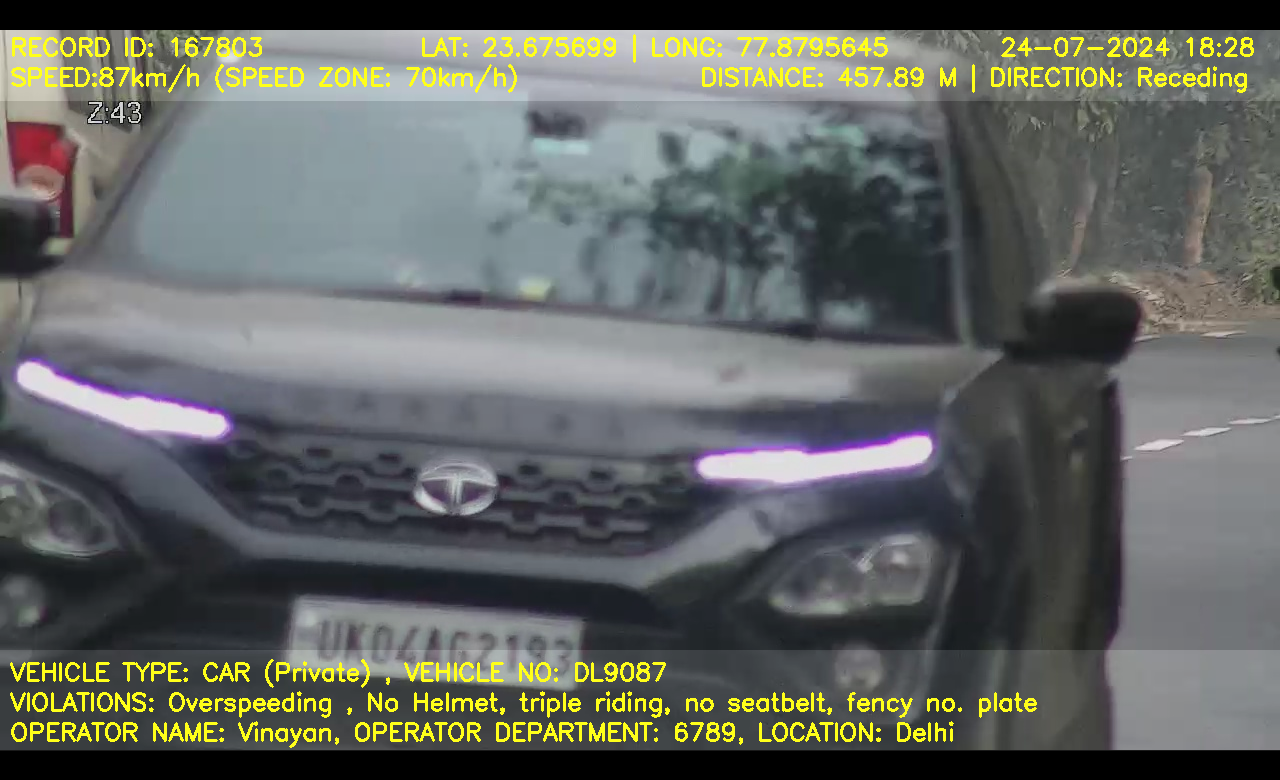
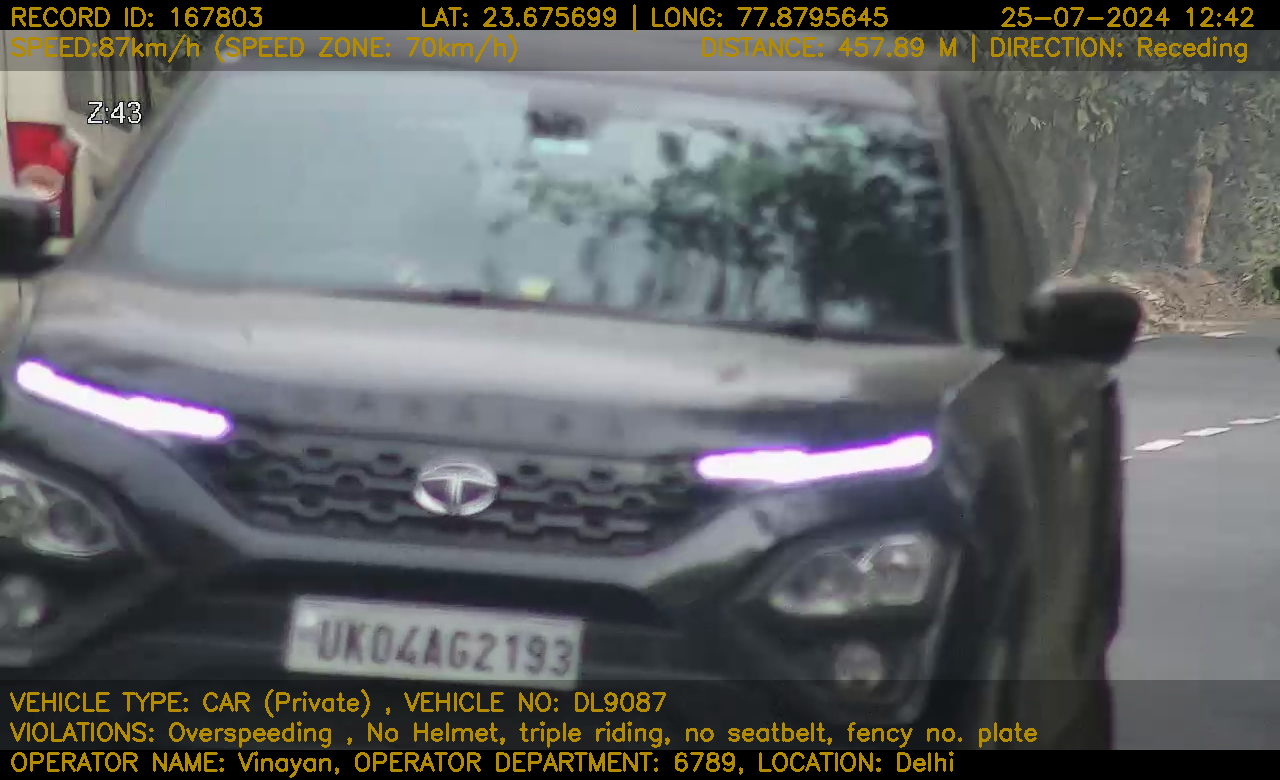
updated

diff --git a/Images_ploting/plotting.py b/Images_ploting/plotting.py
@@ -1,5 +1,4 @@
 import cv2
-import numpy as np
 from datetime import datetime
 
 def plot(img_path, record_id, speed, speed_zone, distance, direction, veh_type, veh_no, veh_ctg, voilation, operator_name, op_id, lat, long, col_b, col_g, col_r,loc):
@@ -11,18 +10,17 @@ def plot(img_path, record_id, speed, speed_zone, distance, direction, veh_type, 
     date_time= datetime.now()
     date_time_format = date_time.strftime("%d-%m-%Y %H:%M")  
     borderd_img = cv2.copyMakeBorder(img_read,30,30,0,0,borderType=cv2.BORDER_CONSTANT)
-    cv2.putText(borderd_img, date_time_format, (1000,55),font, fontScale, color, thickness)
-    cv2.putText(borderd_img, f"RECORD ID: {record_id}", (10,55),font, fontScale, color, thickness)
-    cv2.putText(borderd_img, f"SPEED:{speed} (SPEED ZONE: {speed_zone})", (10,85),font, fontScale, color, thickness)
-    cv2.putText(borderd_img, f"DISTANCE: {distance} | DIRECTION: {direction}", (700,85),font, fontScale, color, thickness)
-    cv2.putText(borderd_img, f"LAT: {lat} | LONG: {long}", (420,55),font, fontScale, color, thickness)
-    cv2.putText(borderd_img, f"VEHICLE TYPE: {veh_type} ({veh_ctg}) , VEHICLE NO: {veh_no}", (10,680),font, fontScale, color, thickness)
-    cv2.putText(borderd_img, f"VIOLATIONS: {voilation} ", (10,710),font, fontScale, color, thickness)
-    cv2.putText(borderd_img, f"OPERATOR NAME: {operator_name}, OPERATOR DEPARTMENT: {op_id}, LOCATION: {loc}", (10,740),font, fontScale, color, thickness)
-    overlay = np.zeros_like(borderd_img)
-    cv2.rectangle(overlay,(0,30),(1280,100), (255,255,255), -1)
-    cv2.rectangle(overlay,(0,650),(1280,750), (255,255,255), -1)
-    alpha = 0.9
+    overlay = borderd_img.copy()
+    cv2.putText(borderd_img, date_time_format, (1000,25),font, fontScale, color, thickness)
+    cv2.putText(borderd_img, f"RECORD ID: {record_id}", (10,25),font, fontScale, color, thickness)
+    cv2.putText(borderd_img, f"SPEED:{speed} (SPEED ZONE: {speed_zone})", (10,55),font, fontScale, color, thickness)
+    cv2.putText(borderd_img, f"DISTANCE: {distance} | DIRECTION: {direction}", (700,55),font, fontScale, color, thickness)
+    cv2.putText(borderd_img, f"LAT: {lat} | LONG: {long}", (420,25),font, fontScale, color, thickness)
+    cv2.putText(borderd_img, f"VEHICLE TYPE: {veh_type} ({veh_ctg}) , VEHICLE NO: {veh_no}", (10,710),font, fontScale, color, thickness)
+    cv2.putText(borderd_img, f"VIOLATIONS: {voilation} ", (10,740),font, fontScale, color, thickness)
+    cv2.putText(borderd_img, f"OPERATOR NAME: {operator_name}, OPERATOR DEPARTMENT: {op_id}, LOCATION: {loc}", (10,770),font, fontScale, color, thickness)
+    cv2.rectangle(overlay,(0,30),(1280,70), (0,0,0,), -1)
+    cv2.rectangle(overlay,(0,680),(1280,755), (0,0,0), -1)
+    alpha = 0.7
     final = cv2.addWeighted(borderd_img,alpha,overlay,1-alpha,0 )
-    # cv2.imwrite("plot_image.png",borderd_img)
     cv2.imwrite("plot_image_output.png",final)

diff --git a/Images_ploting/plotting_logic.py b/Images_ploting/plotting_logic.py
@@ -56,24 +56,61 @@
 
 
 import cv2
-import numpy as np
 from datetime import datetime
 img = r"C:\Users\hp\Downloads\Vinayan_New\Images_ploting\original_image.png"
-
 img_read = cv2.imread(img)
-# overlay = np.zeros_like(img_read)
 fontScale = 1
 color = (255, 0, 0)
 voilation_color = (0,0,255)                                                                                         
 thickness = 2
 font = cv2.FONT_HERSHEY_SIMPLEX
 cns= cv2.copyMakeBorder(img_read,30,30,0,0,cv2.BORDER_CONSTANT)
+cv2.putText(cns, f"VEHICLE TYPE:  , VEHICLE NO:", (10,740),font, fontScale, color, thickness)
 cv2.putText(cns, f"DISTANCE: direction", (20,25),font, fontScale, color, thickness)
 cv2.putText(cns, f"VEHICLE TYPE:  , VEHICLE NO:", (10,740),font, fontScale, color, thickness)
 cv2.putText(cns, f"VIOLATIONS"  , (10,770),font, fontScale, color, thickness)
 cv2.putText(cns, f"OPERATOR NAME: , OPERATOR DEPARTMENT: LOCATION:", (10,800),font, fontScale, color, thickness)
-overlay = np.zeros_like(cns)
-cv2.rectangle(overlay,(0,700),(1050,730), (255,255,255),-1) 
-alpha = 0.8
+overlay = cns.copy()
+cv2.rectangle(overlay,(0,700),(1050,730), (0,0,0),-1)
+alpha = 0.9
 bg_img = cv2.addWeighted(cns, alpha, overlay, 1 - alpha, 0)
 cv2.imwrite("overlay.png",bg_img)
+
+
+
+
+# import cv2
+# import numpy as np
+# from datetime import datetime
+
+# # Load the image
+# img_path = r"C:\Users\hp\Downloads\Vinayan_New\Images_ploting\original_image.png"
+# img_read = cv2.imread(img_path)
+
+# # Define text parameters
+# fontScale = 1
+# text_color = (255, 0, 0)  # Blue color for the text
+# voilation_color = (0, 0, 255)  # Red color (not used in this snippet)
+# thickness = 2
+# font = cv2.FONT_HERSHEY_SIMPLEX
+
+# # Create a copy of the image with a border
+# cns = cv2.copyMakeBorder(img_read, 30, 30, 0, 0, cv2.BORDER_CONSTANT)
+
+# # Define text and its position
+# text = "VEHICLE TYPE:  , VEHICLE NO:"
+# text_position = (10, 740)
+
+# # Get text size to determine the rectangle size
+# (text_width, text_height), _ = cv2.getTextSize(text, font, fontScale, thickness)
+
+# # Draw a filled rectangle as a black overlay
+# overlay_top_left = (text_position[0], text_position[1] - text_height)
+# overlay_bottom_right = (text_position[0] + text_width, text_position[1] + 10)  # Add 10 pixels for padding
+# cv2.rectangle(cns, overlay_top_left, overlay_bottom_right, (0, 0, 0), -1)  # -1 fills the rectangle with black color
+
+# # Put the text on top of the black rectangle
+# cv2.putText(cns, text, text_position, font, fontScale, text_color, thickness)
+
+# # Save the resulting image
+# cv2.imwrite("plot.png", cns)
